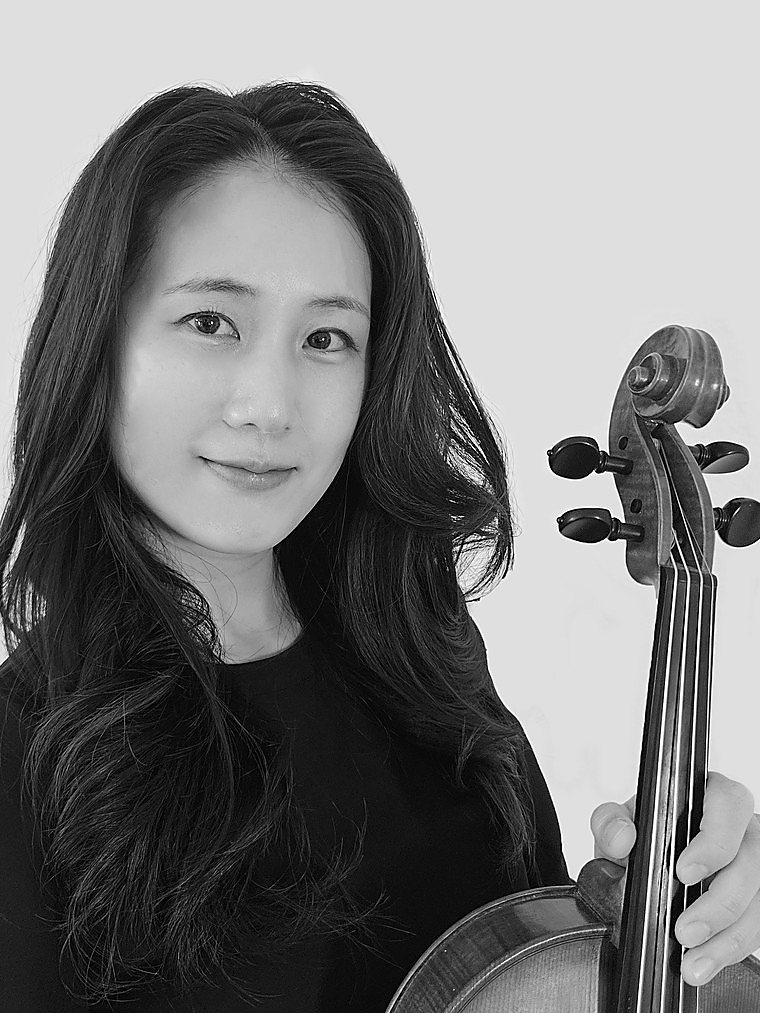
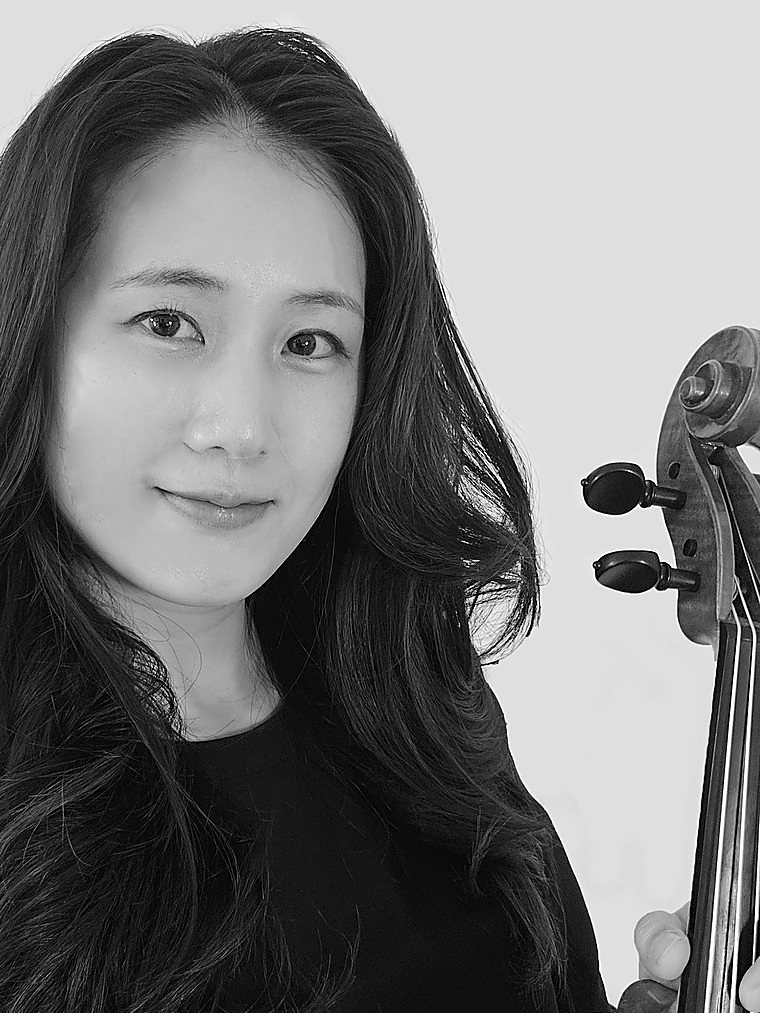
Stand 2026-10-07 13:23

diff --git a/ensemble.html b/ensemble.html
@@ -69,7 +69,7 @@
 <h2 class="besetzung__instrument">Viola</h2>
 <ul class="besetzung__personen">
 <li class="mitglied">
-<img class="portraet" src="bilder/portraet_eunseon.jpg?v=f27e3a37" width="760" height="1013" alt="Eunseon Oh, Bratschistin des Divites Quartetts" loading="lazy">
+<img class="portraet" src="bilder/portraet_eunseon.jpg?v=bf86b9fd" width="760" height="1013" alt="Eunseon Oh, Bratschistin des Divites Quartetts" loading="lazy">
 <h3>Eunseon Oh</h3>
 <p>Bratschistin aus Südkorea. Orchester- und Kammermusikerfahrung sammelte sie am Theater Baden-Baden, im Festspielhaus Baden-Baden und am Theater Osnabrück. In Frankfurt unterrichtet sie Violine und Viola. Seit 2023 im Divites Quartett.</p>
 </li>
